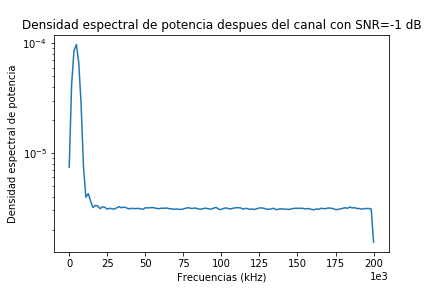
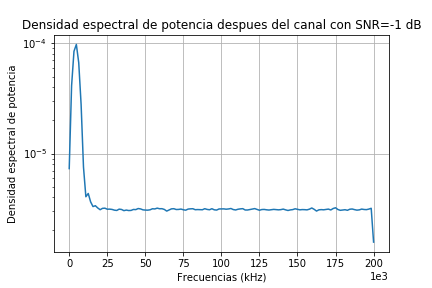
Trabajo Final

diff --git a/Tarea4.py b/Tarea4.py
@@ -44,6 +44,7 @@ plt.ticklabel_format(axis = "x", style = "sci", scilimits=(-6,-6))
 plt.xlabel("Tiempo (us)")
 plt.ylabel("Amplitud")
 plt.title('Forma de onda de la portadora en el tiempo')
+plt.grid()
 plt.savefig("graficas/Forma_onda_portadora.png")
 
 
@@ -87,6 +88,7 @@ plt.ticklabel_format(axis = "x", style = "sci", scilimits=(-3,-3))
 plt.xlabel("Tiempo (ms)")
 plt.ylabel("Amplitud de la señal")
 plt.title("Visualizacion para los primeros "+str(p_Prueba)+" bits modulados")
+plt.grid()
 plt.savefig('graficas/modulado.png')
 
 print("La modulacion correspondiente para los primeros " +str(p_Prueba)+ " bits modulados, los cuales son:",bits[0:p_Prueba])
@@ -117,6 +119,7 @@ plt.xlabel("Frecuencias (kHz)")
 plt.ylabel("Densidad espectral de potencia")
 plt.title("Densidad espectral de potencia antes del canal")
 plt.ticklabel_format(axis = "x", style = "sci", scilimits=(3,3))
+plt.grid()
 plt.savefig("graficas/espectro_antes_canal.png")
 
 
@@ -160,6 +163,7 @@ for SNR in range(-2,4):
     plt.ylabel("Amplitud de la señal")
     plt.title("Recepción con SNR = "+str(SNR)+ " dB, de los primero "+str(p_Prueba)+" bits" )
     plt.ticklabel_format(axis = "x", style = "sci", scilimits=(-3,-3))
+    plt.grid()
     plt.savefig("graficas/RX_para_SNR_"+str(SNR)+".png")
     plt.show()
     
@@ -173,6 +177,7 @@ for SNR in range(-2,4):
     plt.ylabel("Densidad espectral de potencia")
     plt.title("Densidad espectral de potencia despues del canal con SNR="+str(SNR)+" dB")
     plt.ticklabel_format(axis = "x", style = "sci", scilimits=(3,3))
+    plt.grid()
     plt.savefig("graficas/espectro_despues_canal_SNR_"+str(SNR)+".png")
     plt.show()
     
